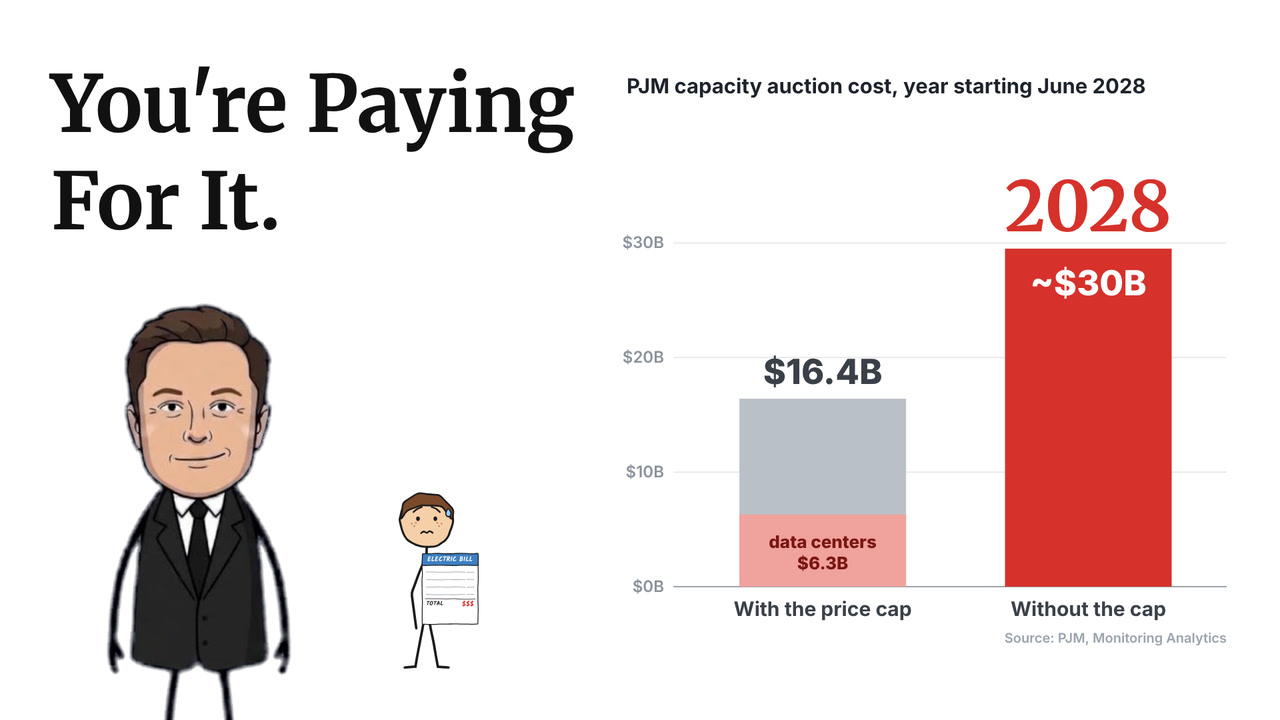
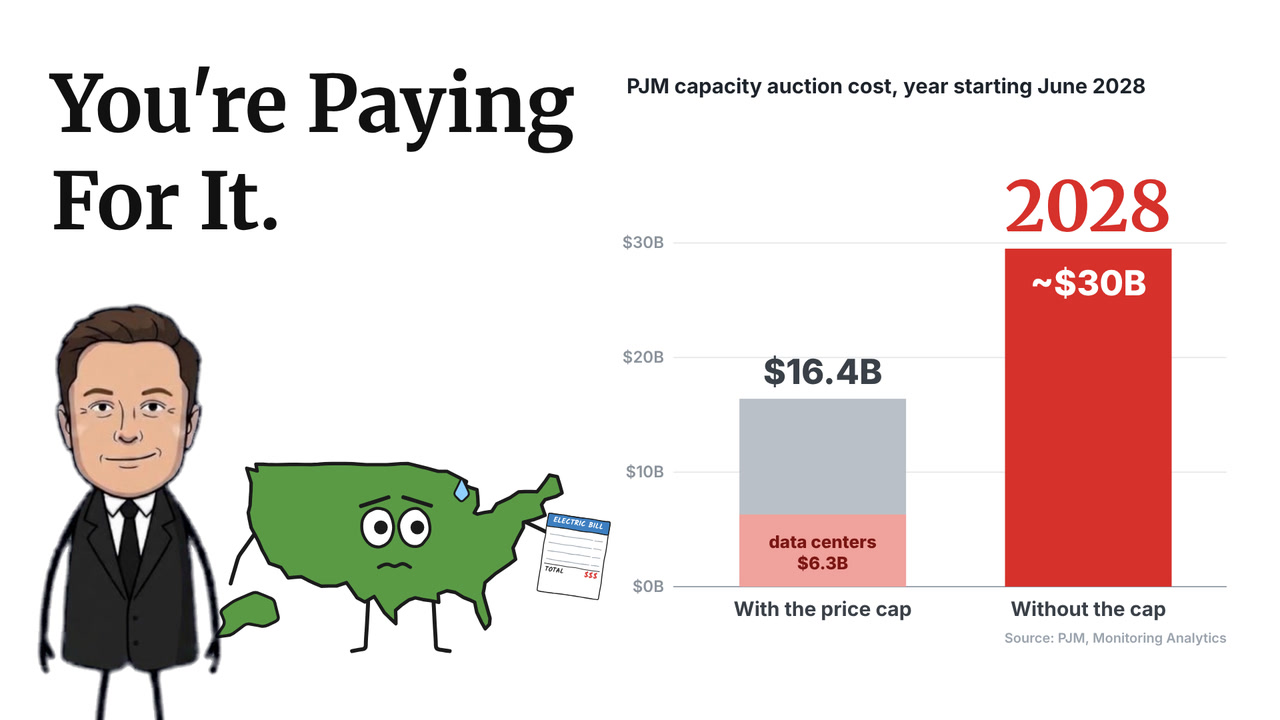
Add green US-map character to the thumbnails
Original green map character (googly eyes, stick limbs) in the reference
channel's style, reacting next to the mascot in each thumbnail.

Claude-Session: https://claude.ai/code/session_01UzgopW36DQD9FBnVpjZFV2

Changed region(s): [[0.0312, 0.3972, 0.5, 1.0]]

diff --git a/finance-video/thumbs/thumbs.js b/finance-video/thumbs/thumbs.js
@@ -18,7 +18,7 @@ const THUMBS = [
     year: '2028', yearAt: [1390, 330],
     source: 'Source: PJM, Monitoring Analytics',
     extra(ctx) {
-      stickman('joe', 640, 1000, 0.62, 'worried', 'holdR', { prop: 'bill', a: { total: '$$$' }, s: 0.45 });
+      mapChar(605, 805, 0.74, { mood: 'worried', sweat: true, arm: 'hold', look: [0.5, -0.3], hold: { prop: 'bill', a: { total: '$$$' }, s: 0.42, rot: 0.15 } });
     },
   },
   {
@@ -32,10 +32,7 @@ const THUMBS = [
     year: '2026', yearAt: [1390, 300],
     source: 'Source: Gallup',
     extra(ctx) {
-      prop('nuclear', 560, 900, 0.5);
-      prop('check', 560, 735, 0.55);
-      prop('dataCenter', 790, 960, 0.48);
-      prop('xmark', 790, 935, 0.6);
+      mapChar(605, 805, 0.74, { mood: 'angry', arm: 'up', look: [0.6, 0], hold: { prop: 'sign', a: { text: 'NO!', size: 84, w: 230, h: 140, color: COL.red }, s: 0.5, dy: -40 } });
     },
   },
   {
@@ -49,8 +46,7 @@ const THUMBS = [
     year: '2030', yearAt: [1390, 320],
     source: 'Source: PJM 2025 load forecast',
     extra(ctx) {
-      prop('dataCenter', 660, 940, 0.62);
-      prop('partyHat', 660, 795, 0.55, 0.15);
+      mapChar(605, 805, 0.74, { mood: 'shocked', arm: 'point', look: [0.4, -0.6], onTop: () => { prop('dataCenter', 175, -95, 0.36); prop('partyHat', 180, -175, 0.42, 0.2); } });
     },
   },
 ];
@@ -68,6 +64,40 @@ function stickman(cast, x, y, s, expr, pose, hold) {
     ctx.save(); ctx.translate(x + H.x * s, y + H.y * s); ctx.scale(hold.s * s, hold.s * s);
     drawProp(ctx, hold.prop, hold.a || {}, 1); ctx.restore();
   }
+}
+// Our own green US-map character (drawn here, in the style of the reference channel):
+// green map, googly eyes, a mouth for the mood, stick arms and legs.
+function mapChar(x, y, s, o = {}) {
+  const pen = new Pen(ctx, 321, 1.1);
+  ctx.save(); ctx.translate(x, y); ctx.scale(s, s);
+  // legs + arms first so the map body overlaps their roots
+  for (const [hx, dir] of [[-70, -1], [60, 1]]) pen.line([[hx, 100], [hx + dir * 6, 228], [hx + dir * 34, 232]], { lw: 8 });
+  pen.line([[-285, -30], [-335, 40], [-350, 95]], { lw: 8 });
+  const hand = o.arm === 'up' ? [330, -210] : o.arm === 'point' ? [390, -150] : [345, 40];
+  const elbow = o.arm === 'up' ? [300, -110] : o.arm === 'point' ? [310, -90] : [300, -5];
+  pen.line([[228, -40], elbow, hand], { lw: 8 });
+  if (o.arm === 'point') pen.seg(hand[0], hand[1], hand[0] + 34, hand[1] - 16, { lw: 7 });
+  // the map
+  pen.shape(US_OUTLINE.map(([lo, la]) => mapXY(lo, la)), { fill: '#5a9a45', lw: 7, smooth: false, amp: 1.4 });
+  pen.shape([[-345, 130], [-300, 112], [-262, 128], [-252, 168], [-282, 182], [-318, 176], [-350, 200], [-382, 204], [-362, 176], [-372, 150]], { fill: '#5a9a45', lw: 6, amp: 1 });
+  // face
+  const lk = o.look || [0, 0];
+  for (const ex of [-52, 22]) {
+    pen.ellipse(ex, -18, 32, 40, { fill: '#fff', lw: 6, irr: 0.04 });
+    ctx.fillStyle = COL.ink; ctx.beginPath(); ctx.arc(ex + lk[0] * 13, -14 + lk[1] * 16, 14, 0, 7); ctx.fill();
+  }
+  if (o.mood === 'angry') { pen.seg(-88, -78, -26, -58, { lw: 9 }); pen.seg(58, -78, -4, -58, { lw: 9 }); }
+  if (o.mood === 'worried') { pen.seg(-86, -62, -30, -80, { lw: 8 }); pen.seg(56, -62, 0, -80, { lw: 8 }); }
+  if (o.mood === 'worried') pen.line([[-50, 62], [-34, 52], [-18, 62], [-2, 52], [14, 62]], { lw: 7 });
+  else if (o.mood === 'angry') { pen.rect(-52, 46, 72, 32, { fill: '#fff', lw: 6, r: 8 }); for (const tx of [-28, -4]) pen.seg(tx, 48, tx, 76, { lw: 3 }); pen.seg(-50, 62, 18, 62, { lw: 3 }); }
+  else if (o.mood === 'shocked') pen.ellipse(-16, 64, 22, 28, { fill: '#5a1f1f', lw: 6 });
+  if (o.sweat) pen.shape([[118, -120], [134, -86], [118, -70], [102, -86]], { fill: '#8fd0ff', lw: 4 });
+  if (o.onTop) o.onTop();
+  if (o.hold) {
+    ctx.save(); ctx.translate(hand[0] + (o.hold.dx || 0), hand[1] + (o.hold.dy || 0)); ctx.rotate(o.hold.rot || 0); ctx.scale(o.hold.s, o.hold.s);
+    drawProp(ctx, o.hold.prop, o.hold.a || {}, 1); ctx.restore();
+  }
+  ctx.restore();
 }
 const CAST_T = { joe: { seed: 11, skin: '#f6cfa9', hair: 'side', hairColor: '#7a4a2a', freckles: true, browsAlways: true } };
 
@@ -119,7 +149,7 @@ function drawThumb(T) {
   if (T.extra) T.extra(ctx);
   const sx = 567, sy = 128, sw = 261, sh = 640, s = 1.06;
   ctx.imageSmoothingQuality = 'high';
-  ctx.drawImage(mascotImg, sx, sy, sw, sh, 160, 455, sw * s, sh * s);
+  ctx.drawImage(mascotImg, sx, sy, sw, sh, 56, 455, sw * s, sh * s);
 }
 
 window.READY = (async () => {
